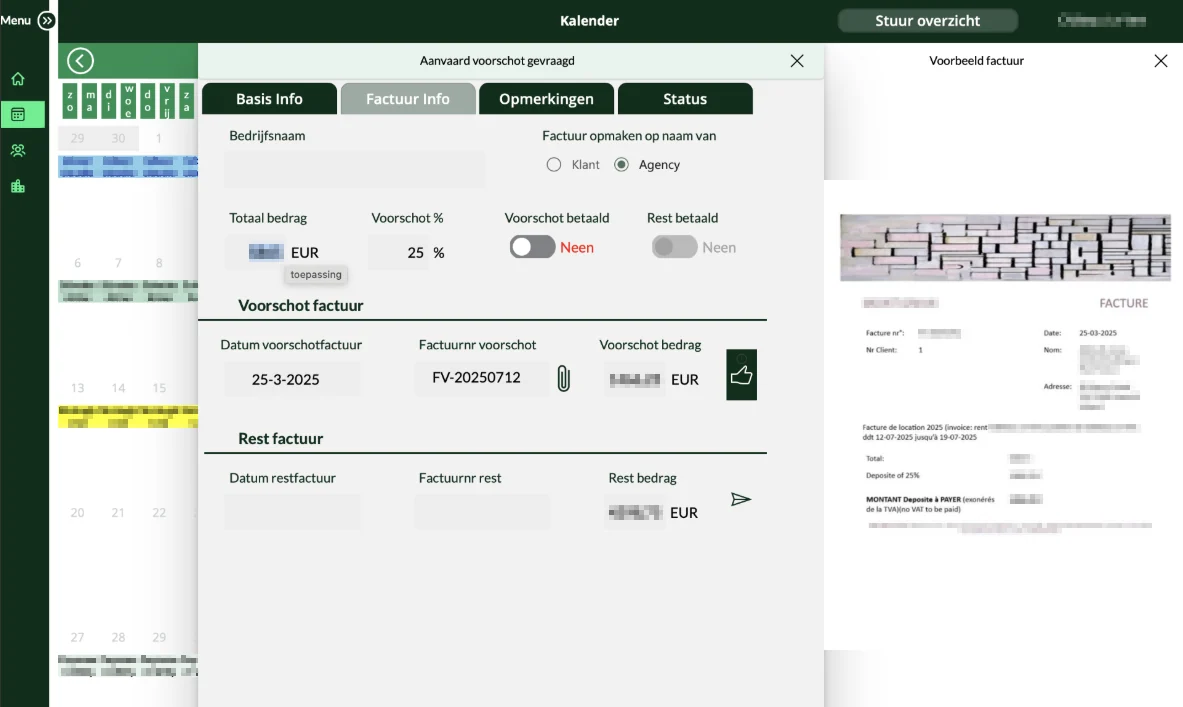
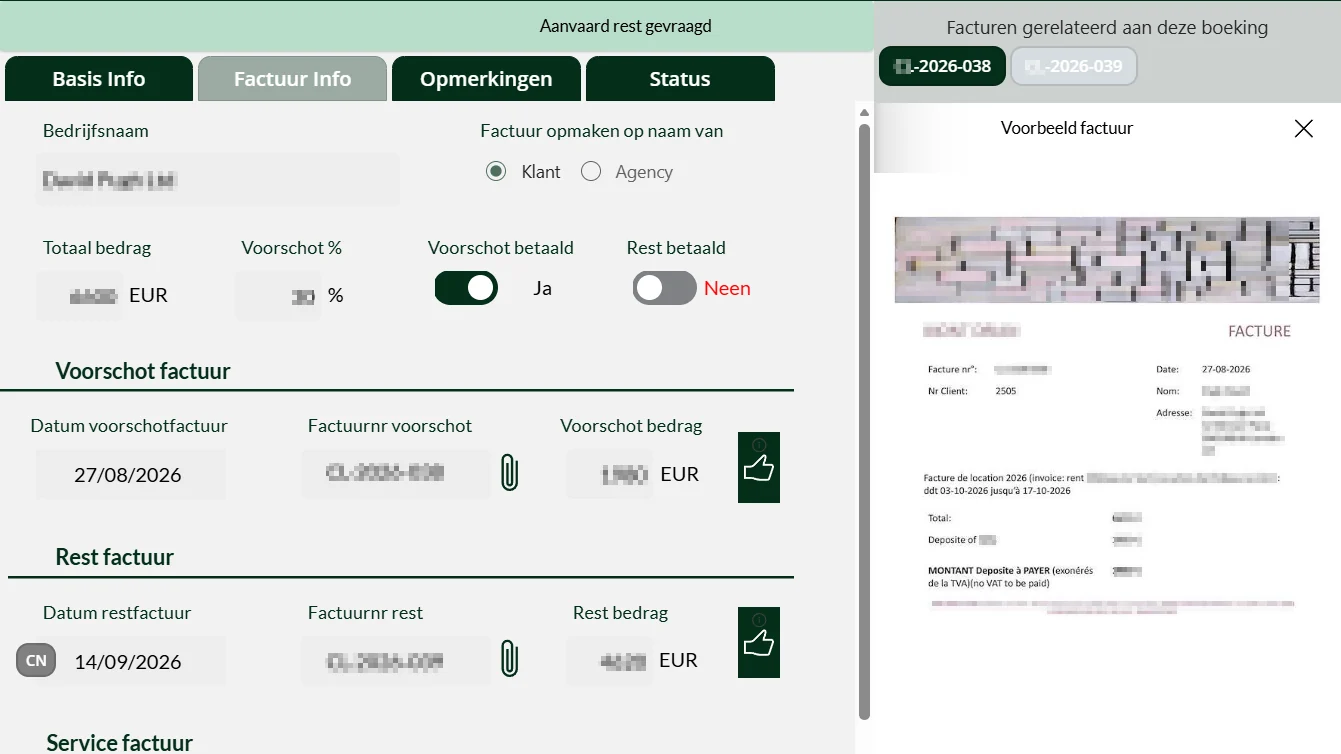
Add files via upload
Optimaliseren

diff --git a/index.html b/index.html
@@ -144,17 +144,15 @@
   .case-top { min-height: 96px; }
   /* VOOR / NA IN CASES */
   .case-visual { display: grid; grid-template-columns: 1fr 1fr; gap: 2px; background: var(--border); border-bottom: 1px solid var(--border); }
-  .case-visual figure { position: relative; margin: 0; background: var(--c50); aspect-ratio: 16/9; overflow: hidden; }
-  .case-visual img { width: 100%; height: 100%; object-fit: cover; object-position: top left; display: block; transition: transform 0.4s; }
-  .case-visual.single figure { aspect-ratio: auto; }
-  .case-visual.single img { height: auto; }
+  .case-visual figure { position: relative; margin: 0; background: var(--c50); display: flex; flex-direction: column; overflow: hidden; }
+  .case-visual img { width: 100%; height: 230px; object-fit: cover; object-position: top left; display: block; transition: transform 0.4s; }
+  @media (max-width: 900px) { .case-visual img { height: 150px; } }
   .case-card:hover .case-visual img { transform: scale(1.03); }
-  .case-visual figcaption { position: absolute; top: 0.6rem; left: 0.6rem; font-size: 0.64rem; font-weight: 700; letter-spacing: 0.1em; text-transform: uppercase; padding: 0.22rem 0.6rem; border-radius: 100px; color: var(--white); background: rgba(27,40,61,0.78); backdrop-filter: blur(4px); }
-  .case-visual .na figcaption { background: var(--c500); }
+  .case-visual figcaption { order: -1; font-size: 0.66rem; font-weight: 700; letter-spacing: 0.1em; text-transform: uppercase; padding: 0.45rem 0.9rem; color: var(--c700); background: var(--white); border-bottom: 1px solid var(--border); white-space: nowrap; overflow: hidden; text-overflow: ellipsis; }
   .case-visual.single { grid-template-columns: 1fr; }
   .case-visual.single .voor, .case-visual.single figcaption { display: none; }
   .case-visual figure.empty img { display: none; }
-  .case-visual figure.empty::after { content: "beeld volgt"; position: absolute; inset: 0; display: flex; align-items: center; justify-content: center; font-size: 0.74rem; color: var(--c400); }
+  .case-visual figure.empty::after { content: "beeld volgt"; height: 230px; display: flex; align-items: center; justify-content: center; font-size: 0.74rem; color: var(--c400); }
 
   /* SCROLL REVEAL */
   .reveal { opacity: 0; transform: translateY(22px); transition: opacity 0.6s ease, transform 0.6s ease; }
@@ -251,18 +249,18 @@
   .cases-grid { display: grid; grid-template-columns: repeat(2, 1fr); gap: 2rem; }
   .cases-grid > .case-card:last-child:nth-child(odd) { grid-column: 1 / -1; width: calc(50% - 1rem); justify-self: center; }
   @media (max-width: 900px) { .cases-grid > .case-card:last-child:nth-child(odd) { width: 100%; } }
-  .case-card { border: 1px solid var(--border); border-radius: var(--radius); overflow: hidden; transition: transform 0.25s, box-shadow 0.25s; }
+  .case-card { display: flex; flex-direction: column; border: 1px solid var(--border); border-radius: var(--radius); overflow: hidden; transition: transform 0.25s, box-shadow 0.25s; }
   .case-card:hover { transform: translateY(-4px); box-shadow: 0 16px 50px rgba(27,40,61,0.1); }
   .case-top { background: linear-gradient(135deg, var(--c900), var(--c700)); padding: 1.5rem 1.8rem; display: flex; align-items: flex-start; gap: 0.9rem; }
   .case-icon-wrap { width: 40px; height: 40px; background: rgba(255,255,255,0.15); border-radius: 9px; display: flex; align-items: center; justify-content: center; flex-shrink: 0; }
   .case-top h3 { font-weight: 600; font-size: 0.95rem; color: var(--white); line-height: 1.35; }
   .case-sector { font-size: 0.69rem; color: rgba(255,255,255,0.5); margin-top: 0.2rem; font-weight: 600; letter-spacing: 0.06em; text-transform: uppercase; }
-  .case-body { padding: 1.6rem 1.8rem; background: var(--white); display: flex; flex-direction: column; gap: 1.1rem; }
+  .case-body { padding: 1.6rem 1.8rem; background: var(--white); display: flex; flex-direction: column; gap: 1.1rem; flex: 1; }
   .case-block { display: flex; flex-direction: column; gap: 0.3rem; }
   .case-label { font-size: 0.67rem; font-weight: 700; letter-spacing: 0.1em; text-transform: uppercase; color: var(--c600); display: flex; align-items: center; gap: 0.45rem; }
   .case-label::before { content: ""; display: inline-block; width: 14px; height: 2px; background: var(--c500); border-radius: 2px; flex-shrink: 0; }
   .case-block p { font-size: 0.87rem; color: var(--muted); line-height: 1.67; }
-  .case-result-row { background: var(--c50); border-left: 3px solid var(--c500); border-radius: 0 8px 8px 0; padding: 0.75rem 1rem; margin-top: 0.2rem; font-size: 0.84rem; font-weight: 600; color: var(--c800); }
+  .case-result-row { background: var(--c50); border-left: 3px solid var(--c500); border-radius: 0 8px 8px 0; padding: 0.75rem 1rem; margin-top: auto; font-size: 0.84rem; font-weight: 600; color: var(--c800); }
 
   /* OVER */
   #over { background: linear-gradient(150deg, var(--c900), var(--c800)); }
@@ -572,10 +570,10 @@
 </section>
 
 <section id="cases">
-  <div class="cases-hdr" style="text-align:center;">
+  <div class="cases-hdr">
     <p class="s-tag">Resultaten in de praktijk</p>
     <h2 class="s-title">Zo ziet het eruit<br><em>in de echte wereld</em></h2>
-    <p class="s-sub" style="margin: 0 auto;">Vijf concrete projecten. Telkens dezelfde aanpak: doelgericht op zoek naar een <strong>gebruiksvriendelijke oplossing die het werk echt lichter maakt</strong>. Met telkens een blik op het scherm zelf.</p>
+    <p class="s-sub">Vijf concrete projecten. Telkens dezelfde aanpak: doelgericht op zoek naar een <strong>gebruiksvriendelijke oplossing die het werk echt lichter maakt</strong>. Met telkens een blik op het scherm zelf.</p>
   </div>
   <div class="cases-grid">
 
@@ -610,7 +608,7 @@
       <!-- Voor/na: zet mystery-shopper-voor.webp en mystery-shopper-na.webp in /img/cases/ (ca. 800x600, onder 200 KB) -->
       <div class="case-visual">
         <figure class="voor"><img src="img/cases/mystery-shopper-voor.webp" alt="Mystery shopper vult de checklist in op zijn gsm, met foto's per vraag" loading="lazy" onerror="cvMissing(this)"><figcaption>App in de winkel</figcaption></figure>
-        <figure class="na"><img src="img/cases/mystery-shopper-na.webp" alt="Automatisch rapport met score, groen/rood per vraag en foto's" loading="lazy" onerror="cvMissing(this)"><figcaption>Rapport, automatisch</figcaption></figure>
+        <figure class="na"><img src="img/cases/mystery-shopper-na.webp" alt="Automatisch rapport met score, groen/rood per vraag en foto's" loading="lazy" onerror="cvMissing(this)"><figcaption>PDF, automatisch</figcaption></figure>
       </div>
       <div class="case-body">
         <div class="case-block">
@@ -678,8 +676,8 @@
       </div>
       <!-- Voor/na: zet boekingen-voor.webp en boekingen-na.webp in /img/cases/ (ca. 800x600, onder 200 KB) -->
       <div class="case-visual">
-        <figure class="voor"><img src="img/cases/boekingen-voor.webp" alt="Papieren agenda en losse mails voor boekingen" loading="lazy" onerror="cvMissing(this)"><figcaption>Voor</figcaption></figure>
-        <figure class="na"><img src="img/cases/boekingen-na.webp" alt="Boeking met status, voorschotfactuur en voorbeeld van de factuur" loading="lazy" onerror="cvMissing(this)"><figcaption>Na</figcaption></figure>
+        <figure class="voor"><img src="img/cases/boekingen-voor.webp" alt="Overzicht van alle boekingen per fase, van aanvraag tot afgewerkt" loading="lazy" onerror="cvMissing(this)"><figcaption>Overzicht per fase</figcaption></figure>
+        <figure class="na"><img src="img/cases/boekingen-na.webp" alt="Boeking met voorschotfactuur en voorbeeld van de factuur" loading="lazy" onerror="cvMissing(this)"><figcaption>Factuur vanuit de boeking</figcaption></figure>
       </div>
       <div class="case-body">
         <div class="case-block">
